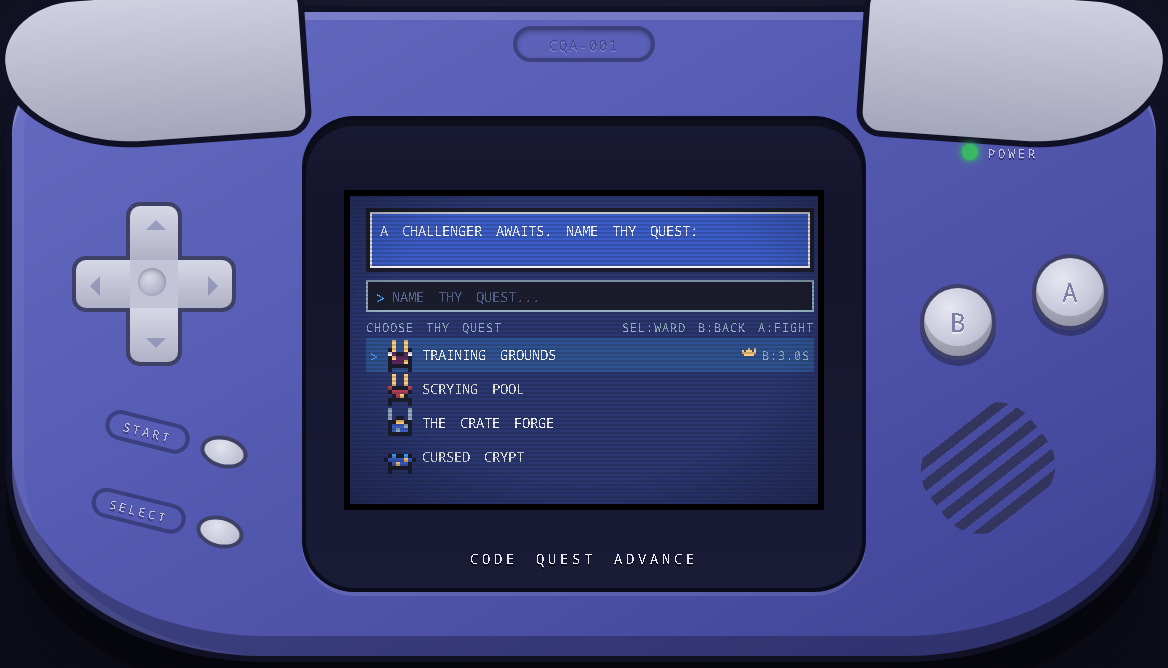
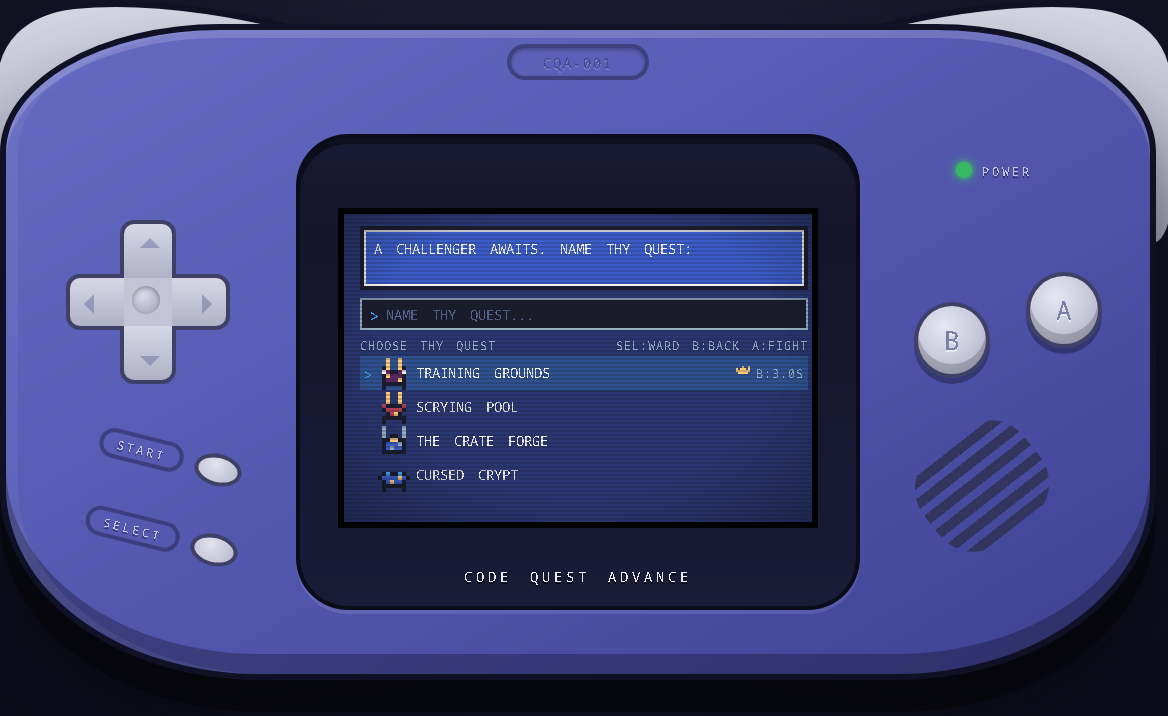
Redraw shoulder caps as traced SVG beziers
CSS border-radius could not produce the reference's shoulder shape, so
the caps are now two SVG paths: an arc rising over each top corner,
wrapping around it, and tapering to a sliver down the body's side. The
SVG sits behind the body as a sibling inside a new #shell-scale
wrapper (DOM order guarantees layering — z-index:-1 inside the
transformed shell painted above its background in WebKit), and fit()
now scales the wrapper. Window gains vertical headroom (716px) so the
caps clear the viewport at the 2x default. Screenshots and
reference-compare regenerated.

diff --git a/src/index.html b/src/index.html
@@ -9,10 +9,21 @@
   </head>
   <body>
     <div id="stage">
-      <div id="shell">
-        <div class="shoulder shoulder-l"></div>
-        <div class="shoulder shoulder-r"></div>
+      <div id="shell-scale">
+        <svg id="shoulders" viewBox="-20 -20 618 368" aria-hidden="true">
+          <defs>
+            <linearGradient id="shldGrad" x1="0" y1="0" x2="0" y2="1">
+              <stop offset="0" stop-color="#d6d7e5"/>
+              <stop offset="1" stop-color="#a6a7bd"/>
+            </linearGradient>
+          </defs>
+          <path d="M 172 8 C 126 -8, 72 -16, 34 -12 C 8 -9, -5 6, -6 26 C -7 50, -8 74, -6 88 C -5 100, -1 108, 5 108 C 10 108, 14 102, 17 95 C 26 76, 66 42, 172 8 Z"
+                fill="url(#shldGrad)" stroke="#101124" stroke-width="3"/>
+          <path d="M 406 8 C 452 -8, 506 -16, 544 -12 C 570 -9, 583 6, 584 26 C 585 50, 586 74, 584 88 C 583 100, 579 108, 573 108 C 568 108, 564 102, 561 95 C 552 76, 512 42, 406 8 Z"
+                fill="url(#shldGrad)" stroke="#101124" stroke-width="3"/>
+        </svg>
 
+        <div id="shell">
         <div id="bezel">
           <div class="bezel-caption">CODE QUEST ADVANCE</div>
           <div class="power-led"></div>
@@ -144,6 +155,7 @@
         <div class="pill" id="btn-start" data-btn="start"><span>START</span></div>
         <div class="speaker"></div>
         <div class="shell-tag">CQA-001</div>
+        </div>
       </div>
     </div>
   </body>

diff --git a/src/main.js b/src/main.js
@@ -273,7 +273,7 @@
   }
 
   // ---------------------------------------------------------- dom refs
-  const shellEl = $('shell'), screenInner = $('screen-inner');
+  const shellEl = $('shell'), scaleEl = $('shell-scale'), screenInner = $('screen-inner');
   const saveL1 = $('save-l1'), saveL2 = $('save-l2'), paletteRow = $('palette-row'), starfield = $('starfield');
   const selectMsg = $('select-msg'), cmdInput = $('cmd-input'), nameEntry = $('name-entry'), questList = $('quest-list');
   const bossWrap = $('boss-wrap'), bossNameEl = $('boss-name'), bossSpriteEl = $('boss-sprite'), heroSpriteEl = $('hero-sprite');
@@ -308,9 +308,9 @@
 
   // ---------------------------------------------------------- scale-to-fit shell
   function fit() {
-    const s = Math.min(window.innerWidth / 584, window.innerHeight / 334);
+    const s = Math.min(window.innerWidth / 584, window.innerHeight / 354);
     const snapped = s >= 1 ? Math.floor(s * 2) / 2 : Math.max(0.35, s); // half-integer steps, integer look
-    shellEl.style.transform = `scale(${snapped})`;
+    scaleEl.style.transform = `scale(${snapped})`;
   }
   window.addEventListener('resize', fit);
 

diff --git a/src/styles.css b/src/styles.css
@@ -76,18 +76,23 @@ html, body {
 }
 
 /* light-gray shoulder caps wrapping the top corners, like the real unit */
-.shoulder {
-  /* thin caps hugging the top corners; lower half hides behind the body */
-  position: absolute;
-  top: -11px;
-  width: 154px;
-  height: 78px;
-  background: linear-gradient(#cfd0e0, #a5a6bc);
-  border: 3px solid #101124;
-  z-index: -1;
+#shell-scale {
+  position: relative;
+  width: 584px;
+  height: 334px;
+  flex: none;
 }
-.shoulder-l { left: -6px; border-radius: 50px 16px 16px 90px / 40px 16px 16px 60px; transform: rotate(-4deg); }
-.shoulder-r { right: -6px; border-radius: 16px 50px 90px 16px / 16px 40px 60px 16px; transform: rotate(4deg); }
+#shoulders {
+  /* traced bezier caps: arc over each corner, tapering down the side.
+     Sibling BEFORE #shell so it paints behind the body by DOM order. */
+  position: absolute;
+  left: -17px;
+  top: -17px;
+  width: 618px;
+  height: 368px;
+  pointer-events: none;
+  overflow: visible;
+}
 
 /* screen bezel */
 #bezel {
